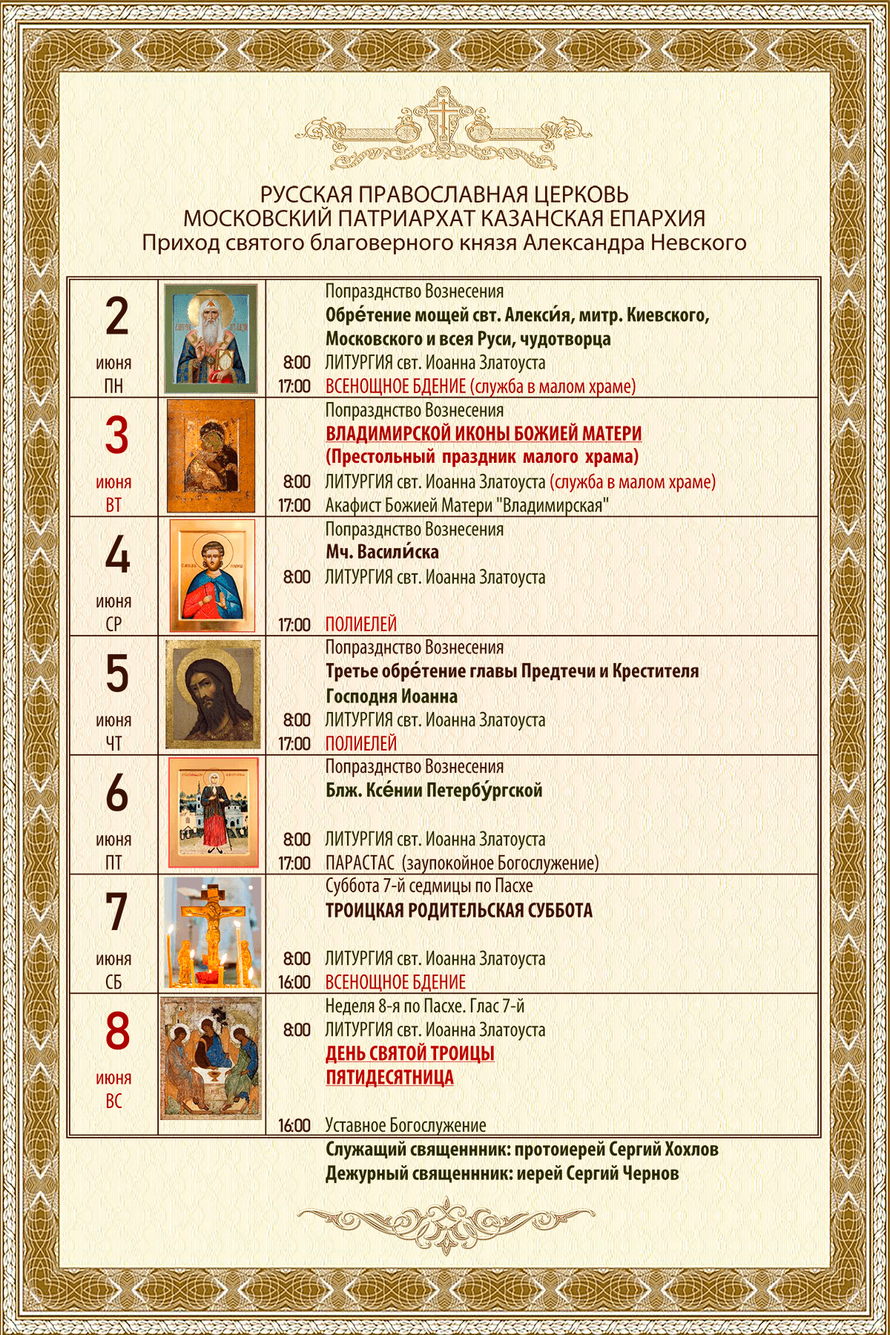
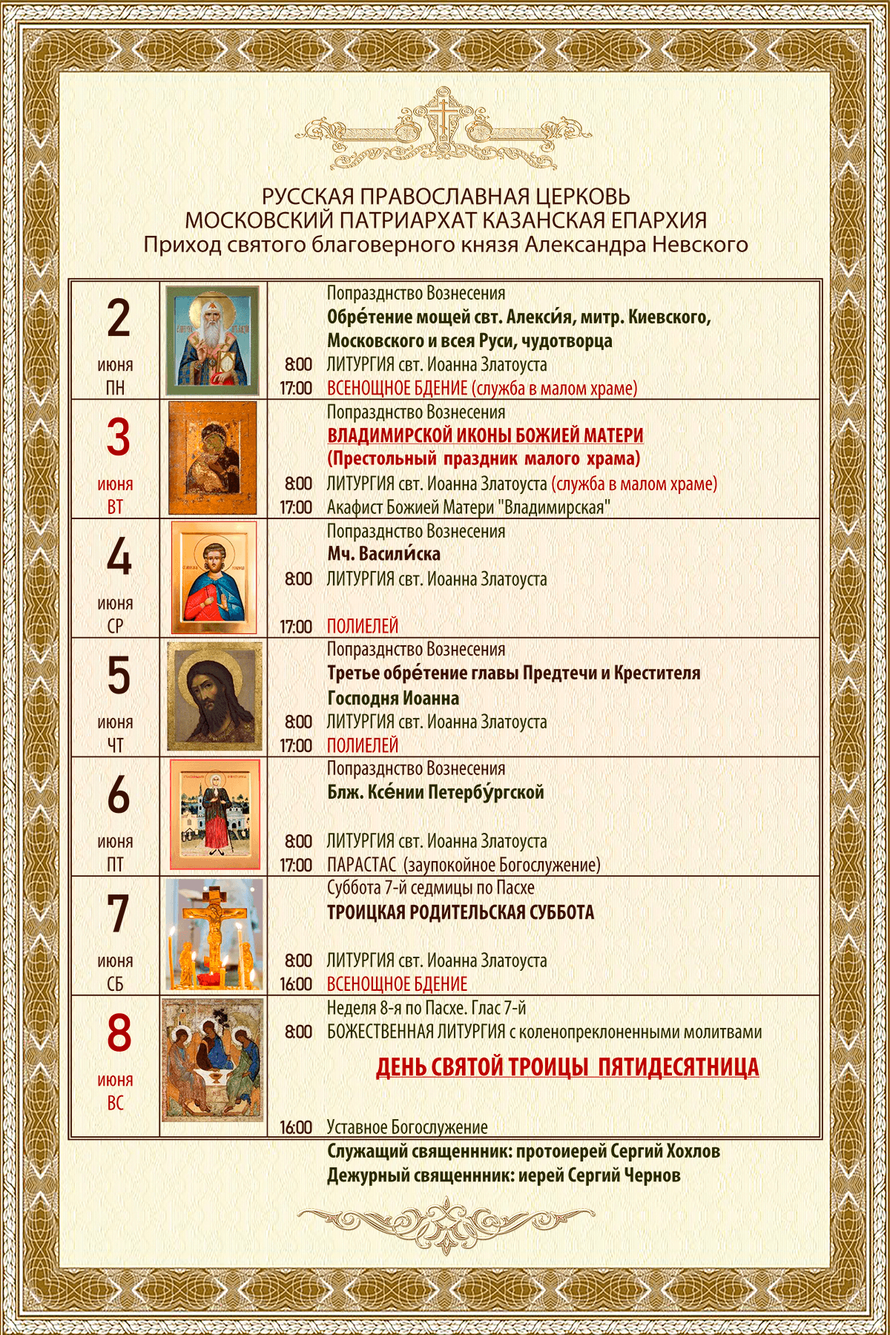
поправил расписание Троица

Changed region(s): [[0.0617, 0.1244, 0.925, 0.9022]]

diff --git a/css/styles.css b/css/styles.css
@@ -159,7 +159,7 @@ h2 {
 .footer-roundlogo {
   display: flex;
   margin: auto auto;
-  width: 80%;
+  width: 70%;
   clip-path: circle(50%);
 }
 .footer-about {
